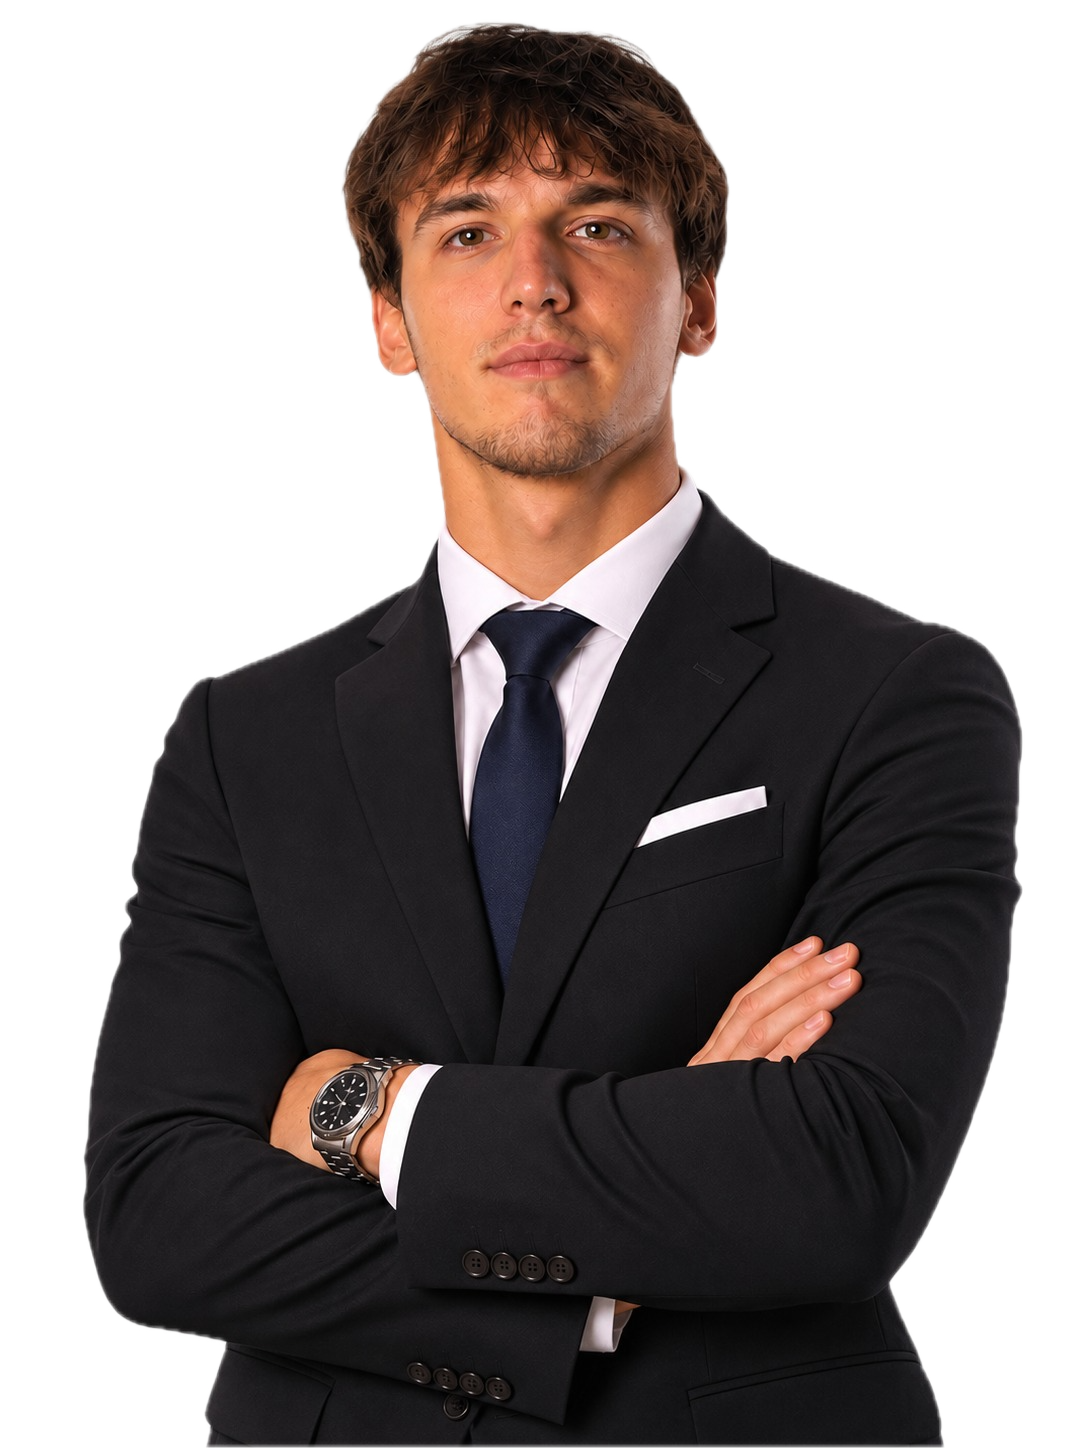
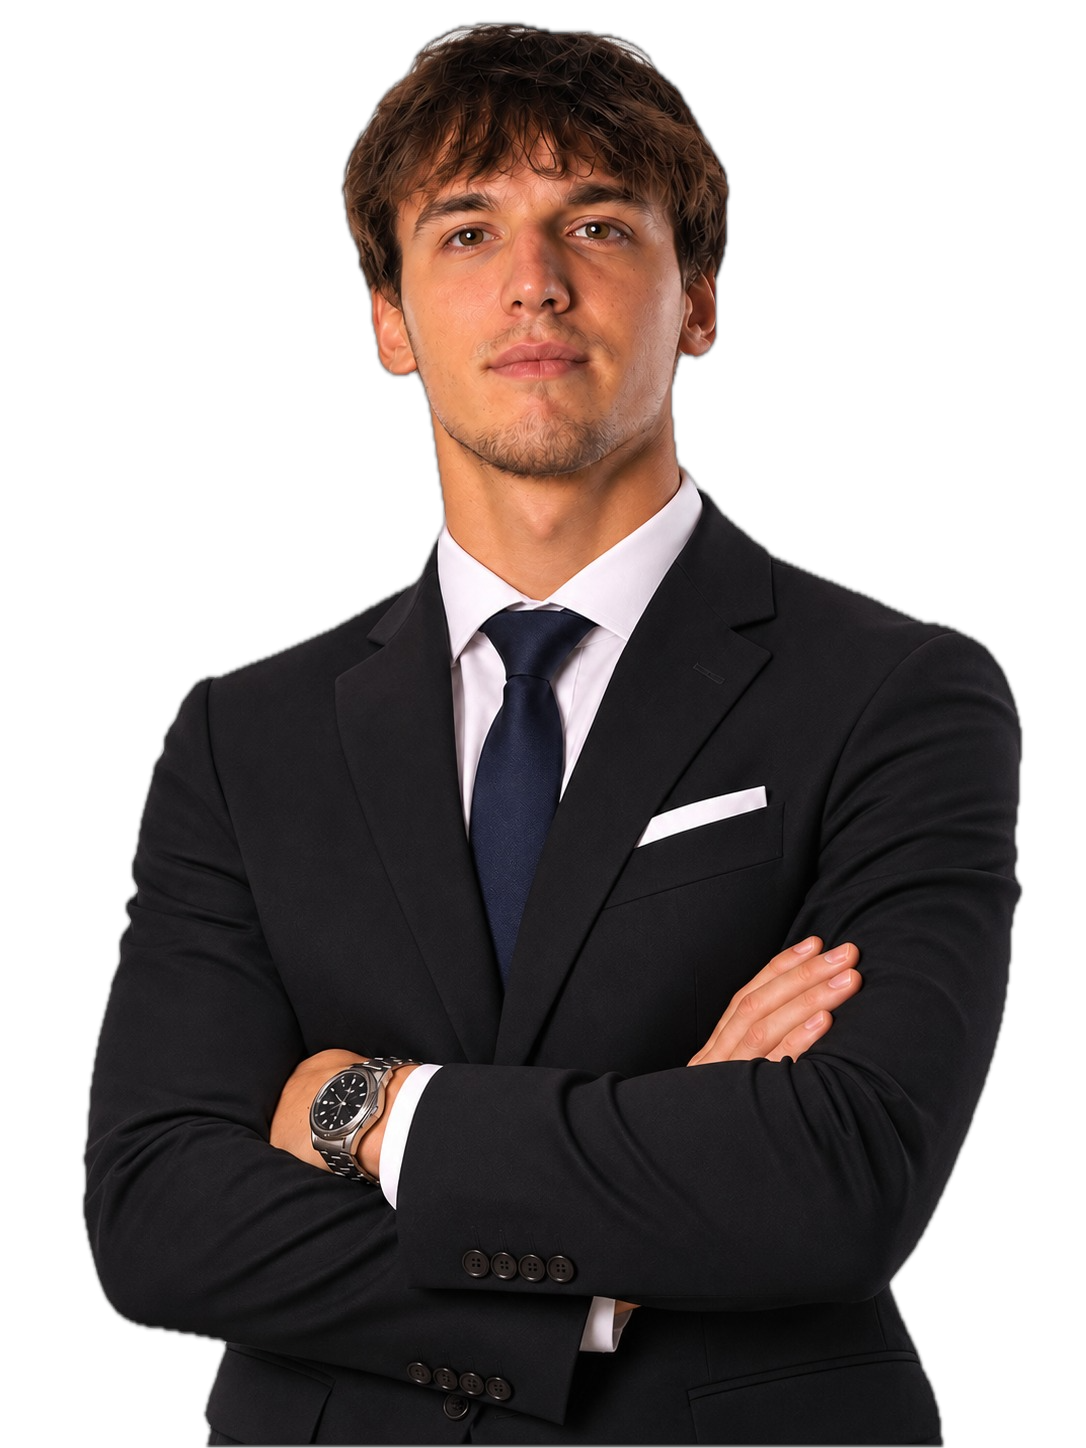
Remove white halos from portrait cutouts

diff --git a/index.html b/index.html
@@ -11,7 +11,7 @@
     <meta name="theme-color" content="#0a0907">
     <link rel="canonical" href="https://vamsastudio.com/">
     <title data-i18n="pageTitle">VAMSA Studio | From Idea to Launch</title>
-    <link rel="stylesheet" href="styles.css?v=8">
+    <link rel="stylesheet" href="styles.css?v=9">
   </head>
   <body>
     <video class="ambient-background" autoplay loop muted playsinline aria-hidden="true" tabindex="-1">
@@ -72,7 +72,7 @@
             <span class="hero-backdrop-studio">STUDIO</span>
           </div>
           <img
-            src="bis.png"
+            src="bis.png?v=2"
             alt="VAMSA Studio team portrait"
             fetchpriority="high"
           >
@@ -1814,10 +1814,10 @@
 
       const reducedMotion = window.matchMedia("(prefers-reduced-motion: reduce)").matches;
       const heroSlides = [
-        { src: "bis.png", alt: "VAMSA Studio team portrait 1" },
-        { src: "hei.png", alt: "VAMSA Studio team portrait 2" },
-        { src: "ljam.png", alt: "VAMSA Studio team portrait 3" },
-        { src: "tis.png", alt: "VAMSA Studio team portrait 4" }
+        { src: "bis.png?v=2", alt: "VAMSA Studio team portrait 1" },
+        { src: "hei.png?v=2", alt: "VAMSA Studio team portrait 2" },
+        { src: "ljam.png?v=2", alt: "VAMSA Studio team portrait 3" },
+        { src: "tis.png?v=2", alt: "VAMSA Studio team portrait 4" }
       ];
       const heroImage = document.querySelector(".hero-image img");
       const heroImageIndex = document.querySelector(".image-index");
